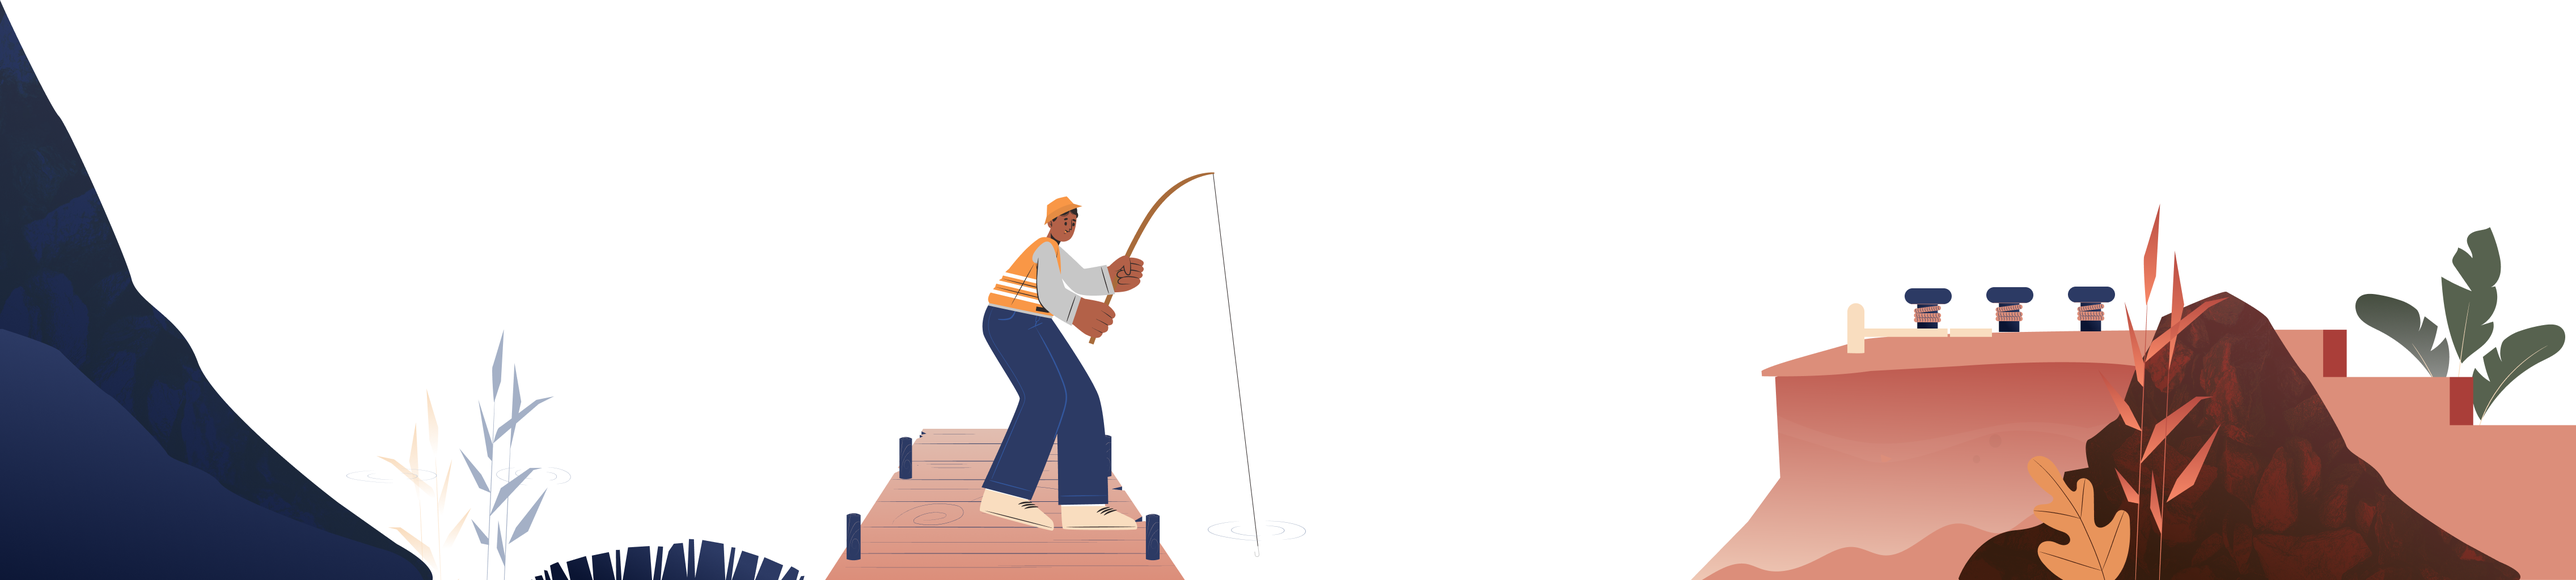
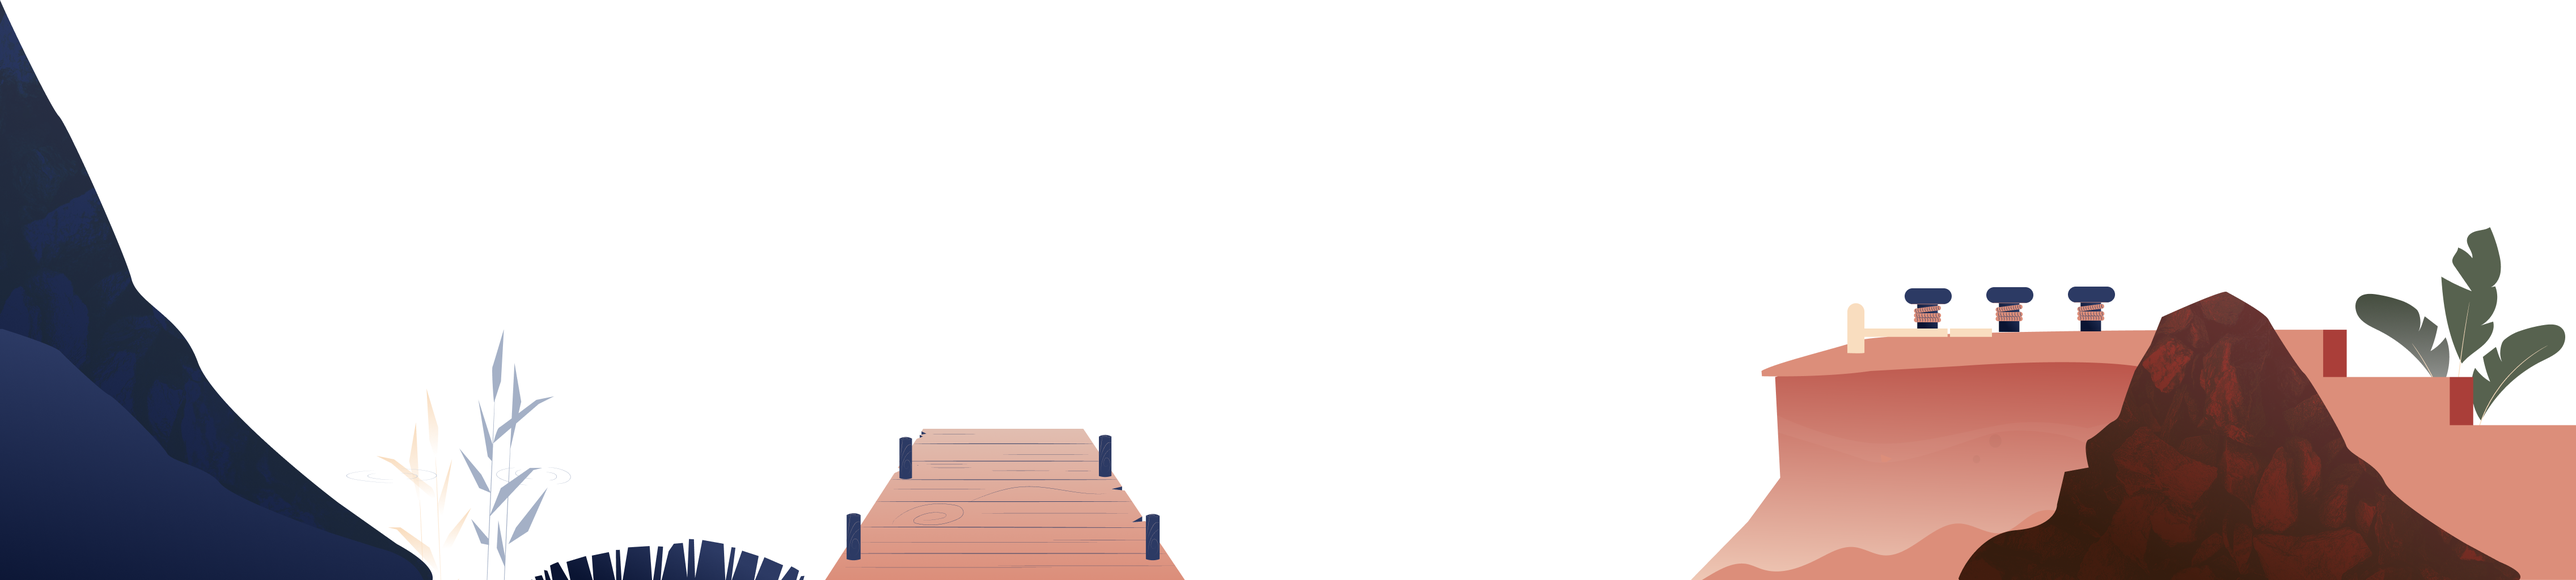
Scene 10 animations

diff --git a/components/Chapter10.vue b/components/Chapter10.vue
@@ -4,6 +4,19 @@
             <div class="b--ss-a__ft-items">
                 <img v-lazy="require(`@/assets/img/chapter-10/front.png`)" alt="front" />
             </div>
+            <!-- animation out of content, fisherman and plant needs more z-index than ft-items and ft-items needs more z-index than content -->
+            <div class="b--chapter10-a__artwork">
+                <div class="b--motion-f" v-lazy:background-image="
+                    require(`@/assets/img/chapter-10/fisherman_spritesheet.png`)
+                    ">
+                </div>
+            </div>
+            <div class="b--chapter10-a__artwork b--chapter10-a__artwork--second">
+                <div class="b--motion-g" v-lazy:background-image="
+                    require(`@/assets/img/chapter-10/plant_wind_2.png`)
+                    ">
+                </div>
+            </div>
             <div class="b--ss-a__content">
                 <!-- chapter title -->
                 <div class="b--chapter10-a__content">

diff --git a/sass/framework/components/motion/b--motion-f.scss b/sass/framework/components/motion/b--motion-f.scss
@@ -1,0 +1,27 @@
+.b--motion-f {
+    position: absolute;
+    bottom: 0;
+    left: 0;
+    z-index: 3;
+    width: 600px;
+    height: 700px;
+    animation-name: motionF;
+    animation-duration: 2s;
+    animation-timing-function: steps(96);
+    animation-iteration-count: infinite;
+    @media all and ($viewport-type: $tabletl) {
+      transform: translate(-05%, 05%) scale(0.9);
+    }
+    @media all and ($viewport-type: $mobile) {
+      transform: translate(-10%, 10%) scale(0.8);
+    }
+  }
+  @keyframes motionF {
+    from {
+      background-position: 0px;
+    }
+    to {
+      background-position: -57600px;
+    }
+  }
+  

diff --git a/sass/index.scss b/sass/index.scss
@@ -62,6 +62,7 @@
 @import './framework/components/motion/b--motion-c.scss';
 @import './framework/components/motion/b--motion-d.scss';
 @import './framework/components/motion/b--motion-e.scss';
+@import './framework/components/motion/b--motion-f.scss';
 @import './framework/components/motion/b--motion-g.scss';
 @import './framework/components/motion/b--motion-i.scss';
 @import './framework/components/motion/b--motion-p.scss';

diff --git a/sass/framework/components/motion/b--motion-g.scss b/sass/framework/components/motion/b--motion-g.scss
@@ -1,5 +1,7 @@
 .b--motion-g {
-  position: relative;
+  position: absolute;
+  bottom: 0;
+  left: 0;
   z-index: 3;
   width: 387px;
   height: 742px;
@@ -8,7 +10,7 @@
   animation-timing-function: steps(96);
   animation-iteration-count: infinite;
   @media all and ($viewport-type: $tabletl) {
-    transform: translate(-25%, -25%) scale(0.5);
+    transform: translate(-10%, 10%) scale(0.8);
   }
 }
 @keyframes motionG {

diff --git a/sass/framework/components/chapter/b--chapter10-a.scss b/sass/framework/components/chapter/b--chapter10-a.scss
@@ -39,4 +39,19 @@
       }
     }
   }
+  // fisherman animation
+  &__artwork {
+    position: absolute;
+    bottom: 2.5%;
+    left: 37.5%;
+    z-index: 10;
+    // plant animation
+    &--second {
+      bottom: -7.8%;
+      left: 77.9%;
+      @media all and ($viewport-type: $tabletl) {
+        bottom: -5%;
+      }
+    }
+  } 
 }

diff --git a/components/Chapter3.vue b/components/Chapter3.vue
@@ -35,7 +35,6 @@
                         title="wheel"
                     />
                 </div>
-
                 <!-- flags right -->
                 <div class="b--chapter3-a__artwork b--chapter3-a__artwork--second">
                     <div class="b--motion-c" v-lazy:background-image="
